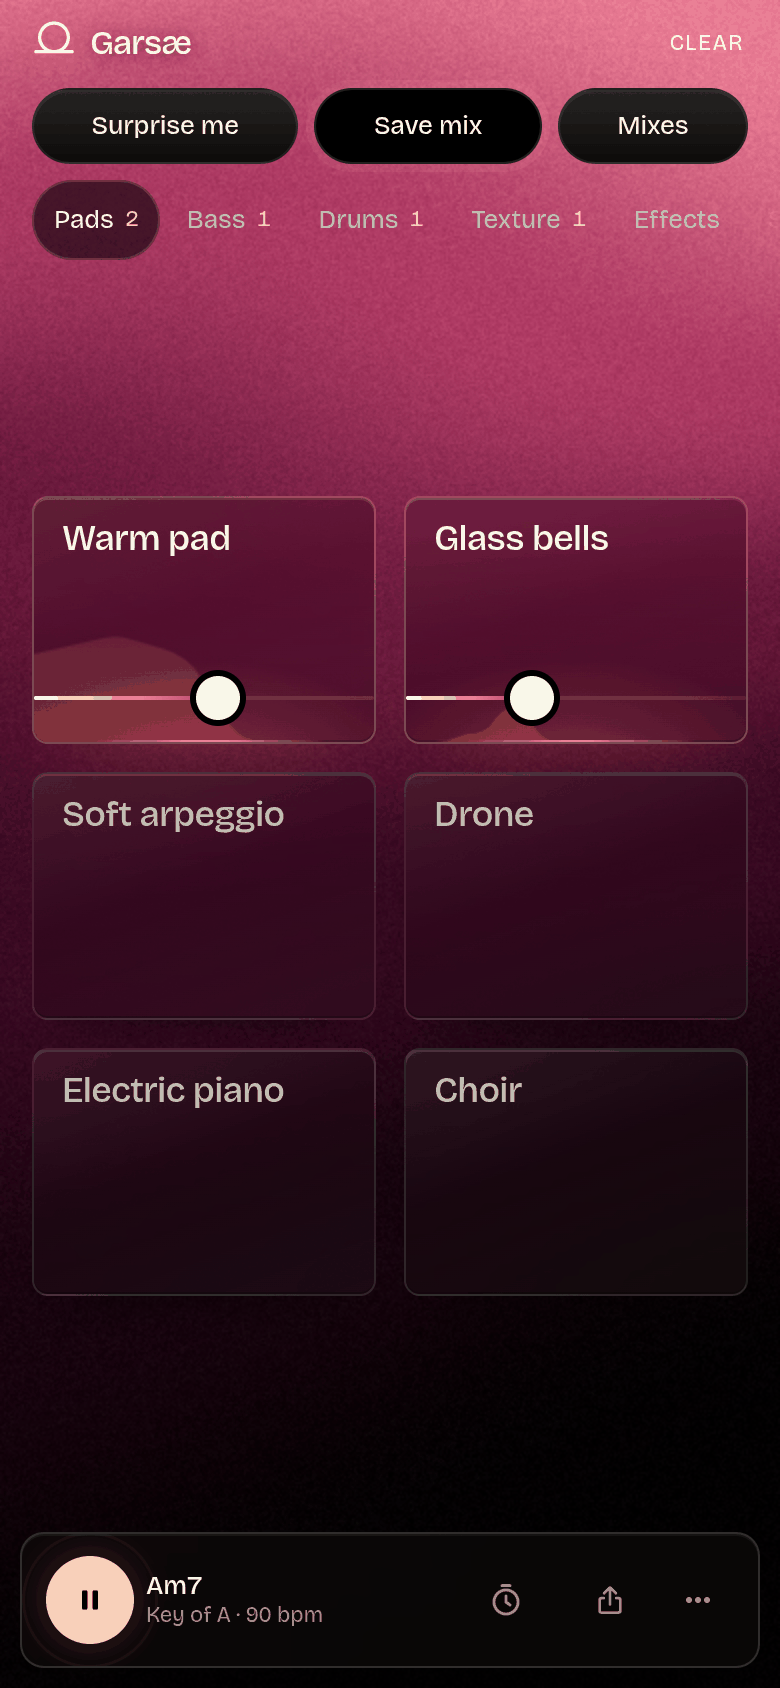
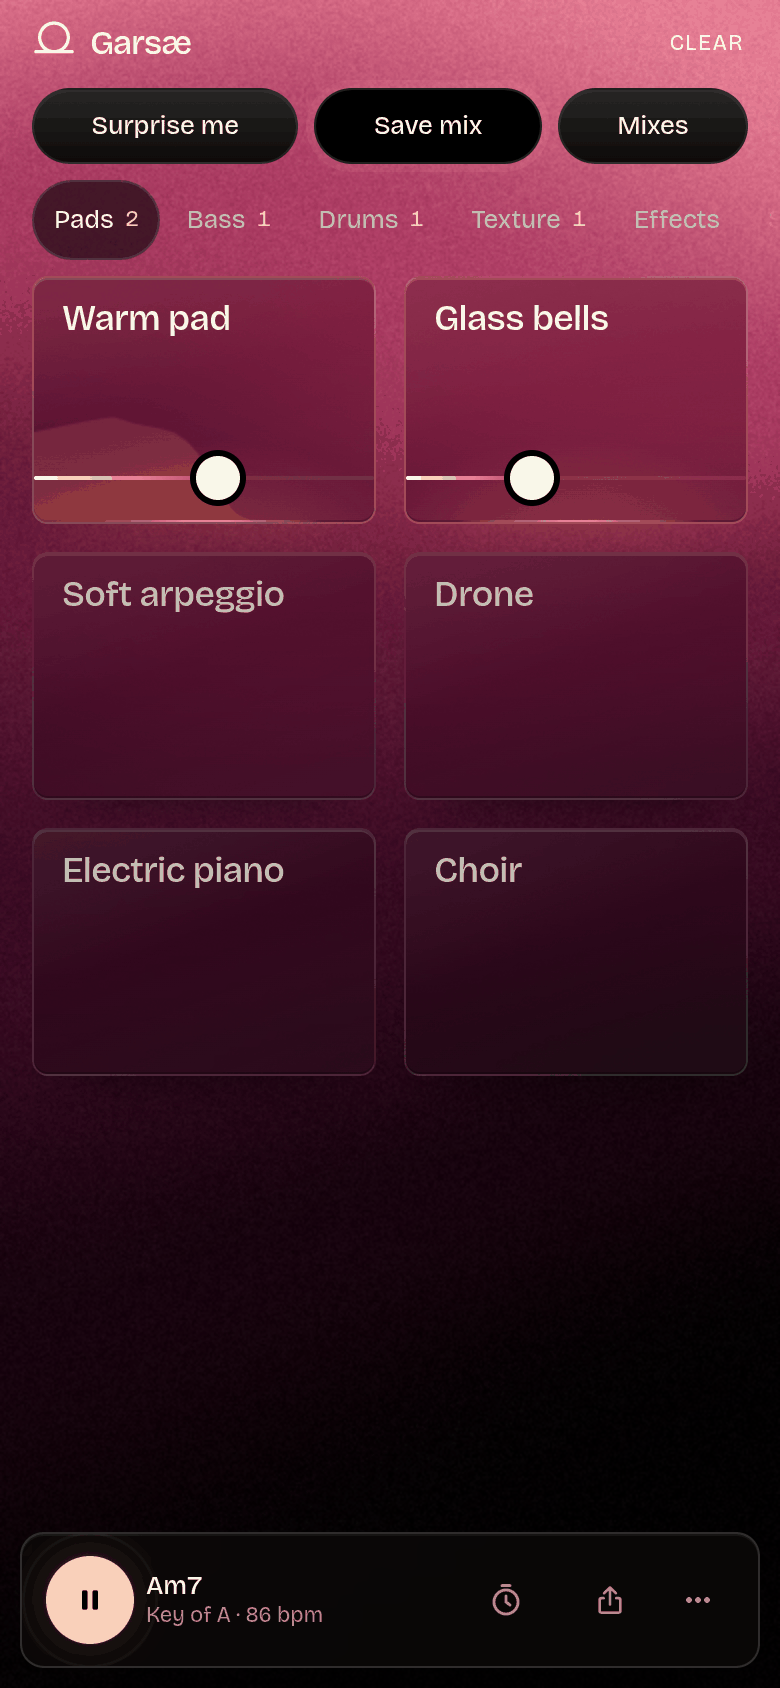
Retake the README screenshots for the sidebar

diff --git a/README.md b/README.md
@@ -13,7 +13,7 @@
 Endless, generative focus music in the browser. Toggle instrument tiles, mix their levels, and let it run in the background. Every sound is synthesized live with the Web Audio API, so nothing repeats. See [DESIGN.md](DESIGN.md) for the full design.
 
 <p align="center">
-  <img src="docs/images/desktop.png" alt="Garsæ on desktop, playing a lo-fi mix with five tiles on" width="76%">
+  <img src="docs/images/desktop.png" alt="Garsæ on desktop, playing a lo-fi mix with the controls in the sidebar" width="76%">
   &nbsp;
   <img src="docs/images/phone.png" alt="Garsæ on a phone, with the player floating at the bottom" width="20%">
 </p>
